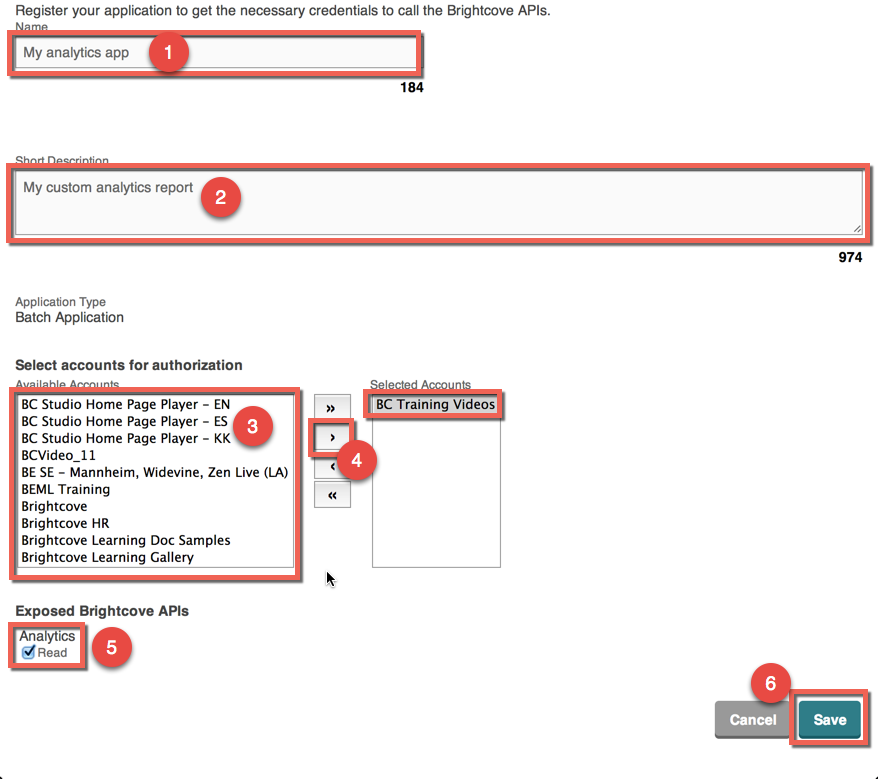
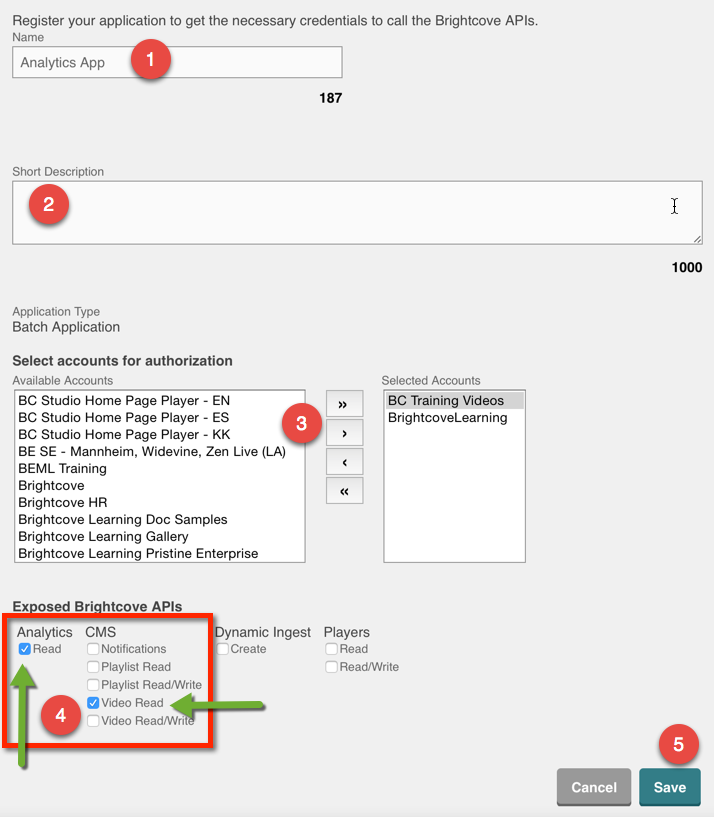
KNOW-5073

diff --git a/en/video-cloud/analytics-api/getting-started/quick-start.html b/en/video-cloud/analytics-api/getting-started/quick-start.html
@@ -77,13 +77,55 @@
                 </ul>
                 <p>For each part of this quick start, you will be given the values for each of these inputs to use with your account.</p>
               </div>
-              <div id="obtaincredentials" class="section">
-                <h2>Obtain credentials</h2>
-                <p>To use the Analytics API you will need proper credentials. Later in this quick start, you will use the credentials in a form when submitting requests to the API. You will also need to enter some information about one of your videos for later tasks in the quick start.</p>
+              <div class="section" id="getCredentials">
+                <h2>Get client credentials</h2>
+                <p>Although you can get client credentials (a
+                    <code>client_id</code> and
+                    <code>client_secret</code>) directly from the Brightcove OAuth Service using <a href="/en/video-cloud/oauth-api/guides/get-client-credentials.html">CURL</a> or <a href="/en/video-cloud/oauth-api/guides/get-client-credentials-postman.html">Postman</a>, the easiest way is to use the <a href="http://docs.brightcove.com/en/video-cloud/analytics-api-v0/guides/managing-api-credentials.html">OAuth Credentials UI</a>. We will use that method here.</p>
                 <ol>
-                  <li>To obtain credentials follow the instructions in <a href="../guides/managing-api-credentials.html">Managing API Credentials</a>. This is the recommended way of obtaining your client credentials.</li>
-                  </ul>
-                </div>
+                    <li>Login to <a href="https://signin.brightcove.com/?redirect=https%3A%2F%2Fstudio.brightcove.com%2F">Video Cloud Studio</a>.</li>
+                    <li>Click the gear icon
+                        <img alt="" src="http://img.brightcove.com/node14056-gear-icon.png" /> in the header.</li>
+                    <li>Click the
+                        <strong>API Authentication</strong> link:
+                        <br />
+                        <img src="assets/oauth-account-settings.png" alt="account settings link" width="182" height="181">
+                    </li>
+                    <li>The API Authentication page will open displaying your current client registrations.
+                        <br />
+                        <img alt="current client registrations" src="assets/oauth-start-screen.png" width="757" height="329" />
+                        <br />
+                        <p class="BCL-aside">Note: Only the client registrations for the account you are logged into will display.</p>
+                    </li>
+                    <li>Click
+                        <strong>Register New Application</strong>.</li>
+                    <li>Enter a
+                        <strong>Name</strong> and
+                        <strong>Short Description</strong> for the client registration (optional).</li>
+                    <li>Select one or more of your accounts for authorization. You can select multiple accounts and click
+                        <strong>&gt;</strong> to add them or click
+                        <strong>&gt;&gt;</strong> to add all accounts. Click
+                        <strong>&lt;</strong> to remove an account or
+                        <strong>&lt;&lt;</strong> to remove all accounts.</li>
+                    <li>Select the API(s) and permission(s) to enable for this registration.
+                        <br />
+                        <img alt="register new app" src="assets/oauth-registering-new-app.png" width="714" height="817" />
+                        <p>Be sure to select <strong>both</strong> Analytics&gt;Read and Video&gt;Read permissions.</p>
+                    </li>
+                    <li>Click
+                        <strong>Save</strong>.</li>
+                    <li>A
+                        <strong>Client ID</strong> and
+                        <strong>Client secret</strong> will be returned.
+                        <br />
+                        <img alt="OAuth" src="assets/oauth-client-secret.png" width="601" height="452" />
+                        <br/>
+                        <p class="BCL-aside">Note: Copy the client secret and store it in a secure location as the client secret
+                            <strong>will not</strong> be displayed again.</p>
+                    </li>
+                </ol>
+                <p class="BCL-aside">These credentials are good for <strong>both</strong> the v1 and v0 (Limited Availability) versions of the Analytics API.</p>
+            </div>
                 <div id="assignvalues" class="section">
                   <h2>Assign values</h2>
                   <p>Values you just retrieved in the previous section will be used, along with your account id, to generate the data inputs for each of the tasks that follow, so that you won't have to type them.</p>

diff --git a/en/video-cloud/analytics-api-v0/getting-started/quick-start.html b/en/video-cloud/analytics-api-v0/getting-started/quick-start.html
@@ -78,7 +78,7 @@
                         <strong>Register New Application</strong>.</li>
                     <li>Enter a
                         <strong>Name</strong> and
-                        <strong>Short Description</strong> for the client registration.</li>
+                        <strong>Short Description</strong> for the client registration (optional).</li>
                     <li>Select one or more of your accounts for authorization. You can select multiple accounts and click
                         <strong>&gt;</strong> to add them or click
                         <strong>&gt;&gt;</strong> to add all accounts. Click
@@ -86,7 +86,8 @@
                         <strong>&lt;&lt;</strong> to remove all accounts.</li>
                     <li>Select the API(s) and permission(s) to enable for this registration.
                         <br />
-                        <img alt="register new app" src="assets/oauth-registering-new-app.png" width="878" height="779" />
+                        <img alt="register new app" src="assets/oauth-registering-new-app.png" width="714" height="817" />
+                        <p>Be sure to select <strong>both</strong> Analytics&gt;Read and Video&gt;Read permissions.</p>
                     </li>
                     <li>Click
                         <strong>Save</strong>.</li>
@@ -100,6 +101,7 @@
                             <strong>will not</strong> be displayed again.</p>
                     </li>
                 </ol>
+                <p class="BCL-aside">These credentials are good for <strong>both</strong> the v1 and v0 (Limited Availability) versions of the Analytics API.</p>
             </div>
             <div class="section" id="getToken">
                 <h2>Get access token</h2>
